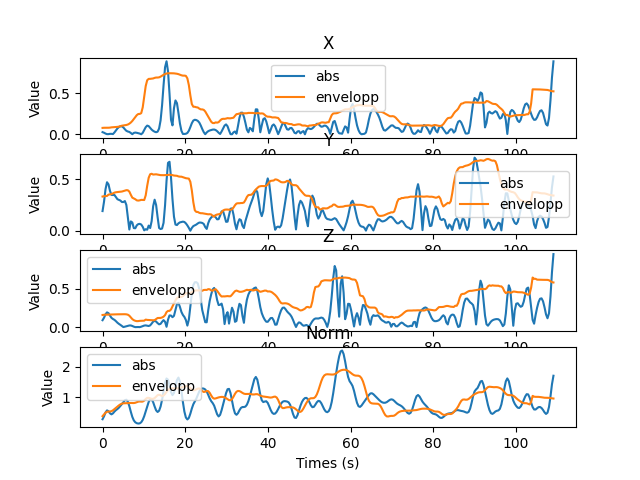
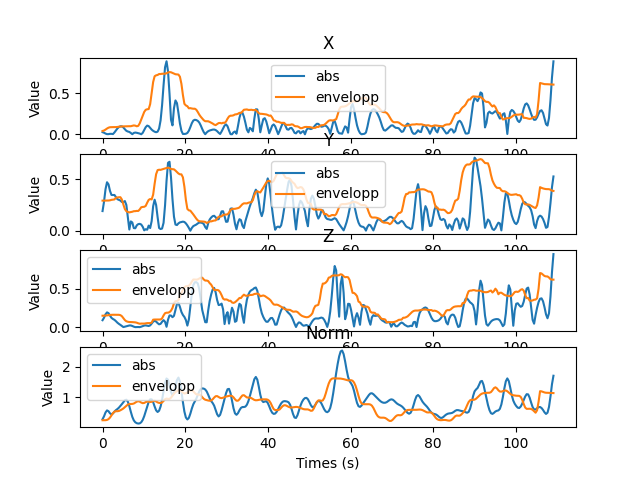
extracted rectangles merged

diff --git a/main.py b/main.py
@@ -2,6 +2,10 @@ import readingsUtils.csv_reading.txtUtils as TXT
 import mathsUtils as MATH
 import numpy as np
 import signalUtils as SIGNAL
+import graphUtils as GRAPH
+import matplotlib.pyplot as plt
+from matplotlib.patches import Rectangle
+from math import sqrt
 
 if __name__ == "__main__":
 
@@ -12,7 +16,7 @@ if __name__ == "__main__":
         down_sampling_factor = freq // 30  # 100Hz to 30Hz
 
         # PARAMETERS FOR THE REST OF THE CODE
-        window_size = 30  # Size of the moving window for computing mean and standard deviation
+        window_size = 20  # Size of the moving window for computing mean and standard deviation
         envelopp_multiplier = 3  # Multiplier for the standard deviation to determine the envelopp
         threshold_multiplier = 0.4 # if too low (<0.4), detection check shows ungesture instead of gesture, if too high, gesture are too much segmented
 
@@ -30,13 +34,59 @@ if __name__ == "__main__":
         downsampled_timestamp = original_timestamp[::smoothing_factor][::down_sampling_factor]
 
         # SEGMENTATION
-        start_accel1, end_accel1, start_accel2, end_accel2 = SIGNAL.all_calculations(downsampled_x_accel, downsampled_y_accel, downsampled_z_accel,
-                                downsampled_timestamp, sigma, window_size,
-                                envelopp_multiplier, threshold_multiplier)
+        start_xaccel, end_xaccel, start_yaccel, end_yaccel, start_zaccel, end_zaccel = SIGNAL.all_calculations(
+                downsampled_x_accel, downsampled_y_accel, downsampled_z_accel,
+                downsampled_timestamp, sigma, window_size,
+                envelopp_multiplier, threshold_multiplier)
 
         SIGNAL.all_calculations(downsampled_x_gyros, downsampled_y_gyros, downsampled_z_gyros,
                                 downsampled_timestamp, sigma, window_size,
                                 envelopp_multiplier, threshold_multiplier)
 
-        test_start, test_end = MATH.merge_rectangles([start_accel1, end_accel1], [start_accel2, end_accel2])
-        print(test_start, test_end)
+        segment_start_indices = [start_xaccel, start_yaccel, start_zaccel]
+        segment_end_indices = [end_xaccel, end_yaccel, end_zaccel]
+
+        min_x = []
+        max_x = []
+        for i in range(0, min(len(start_xaccel), len(start_yaccel), len(start_zaccel))):
+                min_x.append(min(start_xaccel[i], start_yaccel[i], start_zaccel[i]))
+                max_x.append(max(end_xaccel[i], end_yaccel[i], end_zaccel[i]))
+
+        print(min_x, max_x)
+
+        _, ax = plt.subplots()
+        plt.plot(downsampled_x_accel, label="x")
+        plt.plot(downsampled_y_accel, label="y")
+        plt.plot(downsampled_z_accel, label="z")
+
+        
+        for i in range(0, len(min_x)):
+                norm_gaussian_part = downsampled_x_accel[int(min_x[i]):int(max_x[i])]
+                min_y = min(norm_gaussian_part)
+                max_y = max(norm_gaussian_part)
+                
+                rect = Rectangle((min_x[i], min_y), max_x[i] - min_x[i], max_y - min_y, fill=False, edgecolor="blue", linewidth=3)
+                ax.add_patch(rect)
+        plt.legend()
+        plt.title("Merged rectangle with x, y and z channels")
+        plt.savefig("./images_saved/Merged_rectanles.png")
+        plt.show()
+
+        _, ax = plt.subplots()
+        norm = []
+        for i in range(0, len(downsampled_x_accel)):
+                norm.append(sqrt(pow(downsampled_x_accel[i], 2) + pow(downsampled_y_accel[i], 2) + pow(downsampled_z_accel[i], 2)))
+        plt.plot(norm, label="norm")
+
+        
+        for i in range(0, len(min_x)):
+                norm_gaussian_part = norm[int(min_x[i]):int(max_x[i])]
+                min_y = min(norm_gaussian_part)
+                max_y = max(norm_gaussian_part)
+                
+                rect = Rectangle((min_x[i], min_y), max_x[i] - min_x[i], max_y - min_y, fill=False, edgecolor="red", linewidth=3)
+                ax.add_patch(rect)
+        plt.legend()
+        plt.title("Merged rectangle with the norm")
+        plt.savefig("./images_saved/Merged_rectangle_norm.png")
+        plt.show()

diff --git a/graphUtils.py b/graphUtils.py
@@ -2,7 +2,6 @@ from typing import List, Tuple
 
 import matplotlib.pyplot as plt
 from matplotlib.patches import Rectangle
-import numpy as np
 
 def show_3_subplot(x, y1, y2, y3, title, ylabel, xlabel):
     plt.subplot(3, 1, 1)
@@ -53,6 +52,8 @@ def plot_simple_segmentation(downsampled_timestamp, signal, signal_derivative, n
                "Adaptative",
                (abs_signal, "abs"), (envelopp, "envelopp") )
 
+    plt.figure()
+    plt.subplot(4)
     plots_rectangles(y_signal=norm_gaussian,
                      segment_start_indices=segment_start,
                      segment_end_indices=segment_end,
@@ -108,7 +109,31 @@ def plots_rectangles(y_signals: List[Tuple[List[float],str]], segment_start_indi
         plt.show()
 
 
+def test(signals: List[Tuple[List[float], str]], rectangles: List[Tuple[float, float]], need_buffer: bool):
+    _, ax = plt.subplots()
+    patches = []
+    lines = []
 
+    for i in range(len(signals)):
+        y_signal, label = signals[i]
+        x_min, x_max = rectangles[i]
+
+        line, = plt.plot(y_signal, label=label)
+        lines.append(line)
+
+        if len(y_signal) > 0:
+            min_y = min(y_signal)
+            max_y = max(y_signal)
+            rect = Rectangle((x_min, min_y), x_max - x_min, max_y - min_y, fill=False, edgecolor=line.get_color(), linewidth=3)
+            ax.add_patch(rect)
+            patches.append(rect)
+
+    plt.legend()
+    plt.title("Merged Rectangles")
+
+    if not need_buffer:
+        plt.savefig("./images_saved/Merged_rectangle.png")
+        plt.show()
 
 
 

diff --git a/mathsUtils.py b/mathsUtils.py
@@ -46,7 +46,6 @@ def simple_segmentation(downsampled_timestamp, signal, sigma, window_size, envel
     # Filtering with Gaussian filter the derivated data
     norm_gaussian = gaussian_filter1d(signal_derivative, sigma)
 
-
     # Compute the adaptive envelopp using moving average and standard deviation
     abs_signal = np.abs(norm_gaussian)
     mean_signal = np.convolve(abs_signal, np.ones(window_size) / window_size, mode='same')
@@ -102,5 +101,9 @@ def merge_rectangles(segment_start, segment_end):
         new_segment_end = segment_end[0]
     return new_segment_start, new_segment_end
 
-def rectangle_segmentation(window_size, rectangle_amount):
-    pass
+def rectangle_segmentation(segment_start: List[float], segment_end: List[float]):
+    rectangle_amount = len(segment_start)
+
+    if rectangle_amount >= 3:
+        return merge_rectangles(segment_start[0], segment_end[-1])
+

diff --git a/signalUtils.py b/signalUtils.py
@@ -49,4 +49,4 @@ def all_calculations(downsampled_x_accel, downsampled_y_accel, downsampled_z_acc
                             [end_xaccel, end_yaccel, end_zaccel, end_norm],
                             False)
     
-    return start_xaccel[0], end_xaccel[0], start_xaccel[1], end_xaccel[1]
+    return start_xaccel, end_xaccel, start_yaccel, end_yaccel, start_zaccel, end_zaccel
